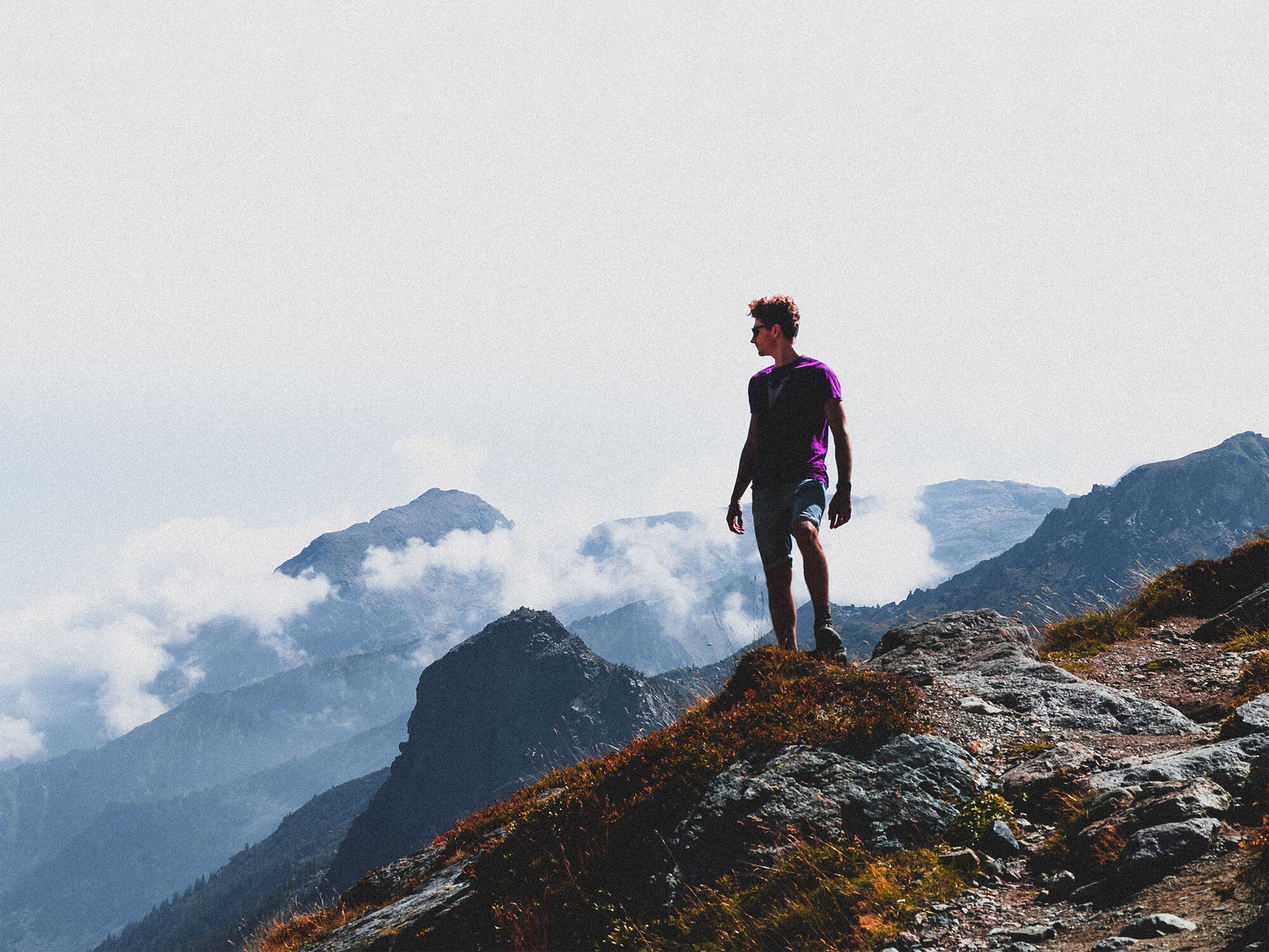
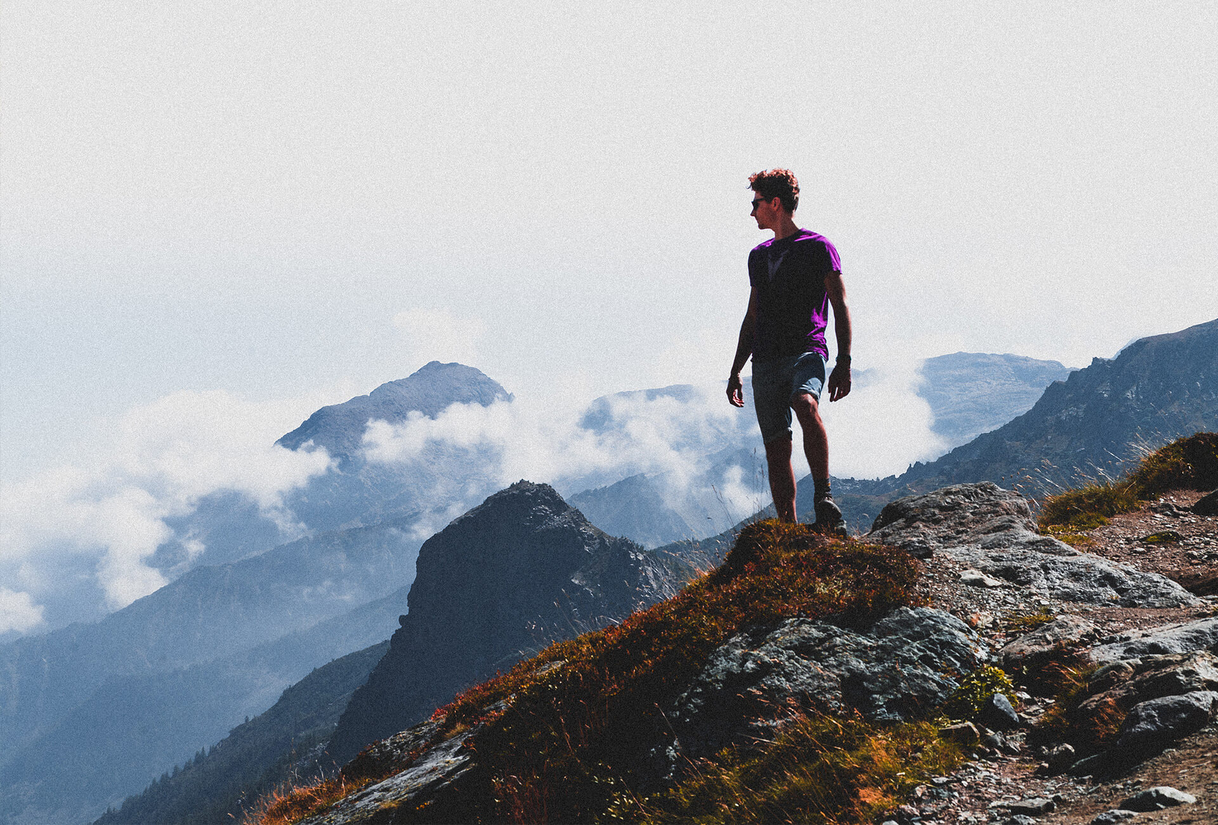
fix: add mobile images, review cursor animation and reorganize z-index

diff --git a/templates/Hero/hero.module.scss b/templates/Hero/hero.module.scss
@@ -3,14 +3,16 @@
 @import "../../styles/variables.scss";
 
 .Hero {
+    background-color: $color--gray-light;
+
     &__Sphere {
         animation-direction: alternate;
-        animation-duration: 3s;
+        animation-duration: 10s;
         animation-iteration-count: infinite;
         animation-name: fluctuation;
         animation-timing-function: ease-in-out;
         display: none;
-        mix-blend-mode: soft-light;
+        mix-blend-mode: screen;
         position: absolute;
         z-index: $index--sphere;
 
@@ -32,7 +34,7 @@
         &--02 {
             right: 0;
             top: 100vh;
-            transform: translate(-5%, -55%);
+            transform: translate(10%, -60%);
 
             @include xlScreen {
                 height: 120rem;
@@ -42,12 +44,23 @@
     }
 
     &__Image {
-        left: 0;
-        min-height: 100vh;
+        background-blend-mode: multiply;
+        background-image: url("/images/hero.jpg");
+        background-repeat: no-repeat;
+        height: 1300px;
+        right: 0;
         mix-blend-mode: multiply;
         position: absolute;
         top: 0;
+        width: 1920px;
         z-index: $index--img;
+
+        @include xsScreen {
+            background-image: url("/images/hero-mobile.jpg");
+            height: 1000px;
+            width: 400px;
+            background-position-x: 0;
+        }
     }
 
     &__Main {

diff --git a/styles/animations.scss b/styles/animations.scss
@@ -1,21 +1,32 @@
+@function randomNum($min, $max) {
+    $rand: random();
+    $randomNum: $min + floor($rand * (($max - $min) + 1));
+
+    @return $randomNum;
+}
+
+@function randomMargin() {
+    @return #{randomNum(-3, 3)}rem #{randomNum(-3, 3)}rem;
+}
+
 @keyframes fluctuation {
     0% {
         margin: 0 0;
     }
 
     25% {
-        margin: -0.3rem 0;
+        margin: randomMargin();
     }
 
     50% {
-        margin: 0.3rem 0;
+        margin: randomMargin();
     }
 
     75% {
-        margin: -0.4rem 0;
+        margin: randomMargin();
     }
 
     100% {
-        margin: 0.2rem 0;
+        margin: randomMargin();
     }
 }

diff --git a/styles/variables.scss b/styles/variables.scss
@@ -18,11 +18,11 @@ $size--sm: 2rem;
 $size--xs: 1.5rem;
 $size--xxs: 1rem;
 
-$index--img: 0; 
+$index--sphere: 0; 
+$index--img: 1; 
 $index--waves: 1;
 $index--noise: 2;
-$index--sphere: 3; 
-$index--bubbles: 4;
-$index--content: 5;
-$index--modal: 6;
-$index--cursor: 7;
+$index--bubbles: 3;
+$index--content: 4;
+$index--modal: 5;
+$index--cursor: 6;

diff --git a/templates/Hero/hero.tsx b/templates/Hero/hero.tsx
@@ -38,11 +38,9 @@ const Hero = () => {
       className={styles.Hero}
       style={{ height: sectionHeight }}
     >
-      <img
+      <div
         ref={imageRef}
         className={styles.Hero__Image}
-        src="/images/hero.jpg"
-        alt="hero"
       />
 
       <img

diff --git a/components/Cursor/hooks/index.ts b/components/Cursor/hooks/index.ts
@@ -2,7 +2,7 @@ import { TweenLite, Linear } from 'gsap';
 import React, { useCallback, useRef, useState } from 'react';
 
 const OFFSET = 500;
-const MULTIPLIER = 1.3;
+const MULTIPLIER = 1.1;
 const DURATION = 0.4;
 
 export const useMouseMove = (
